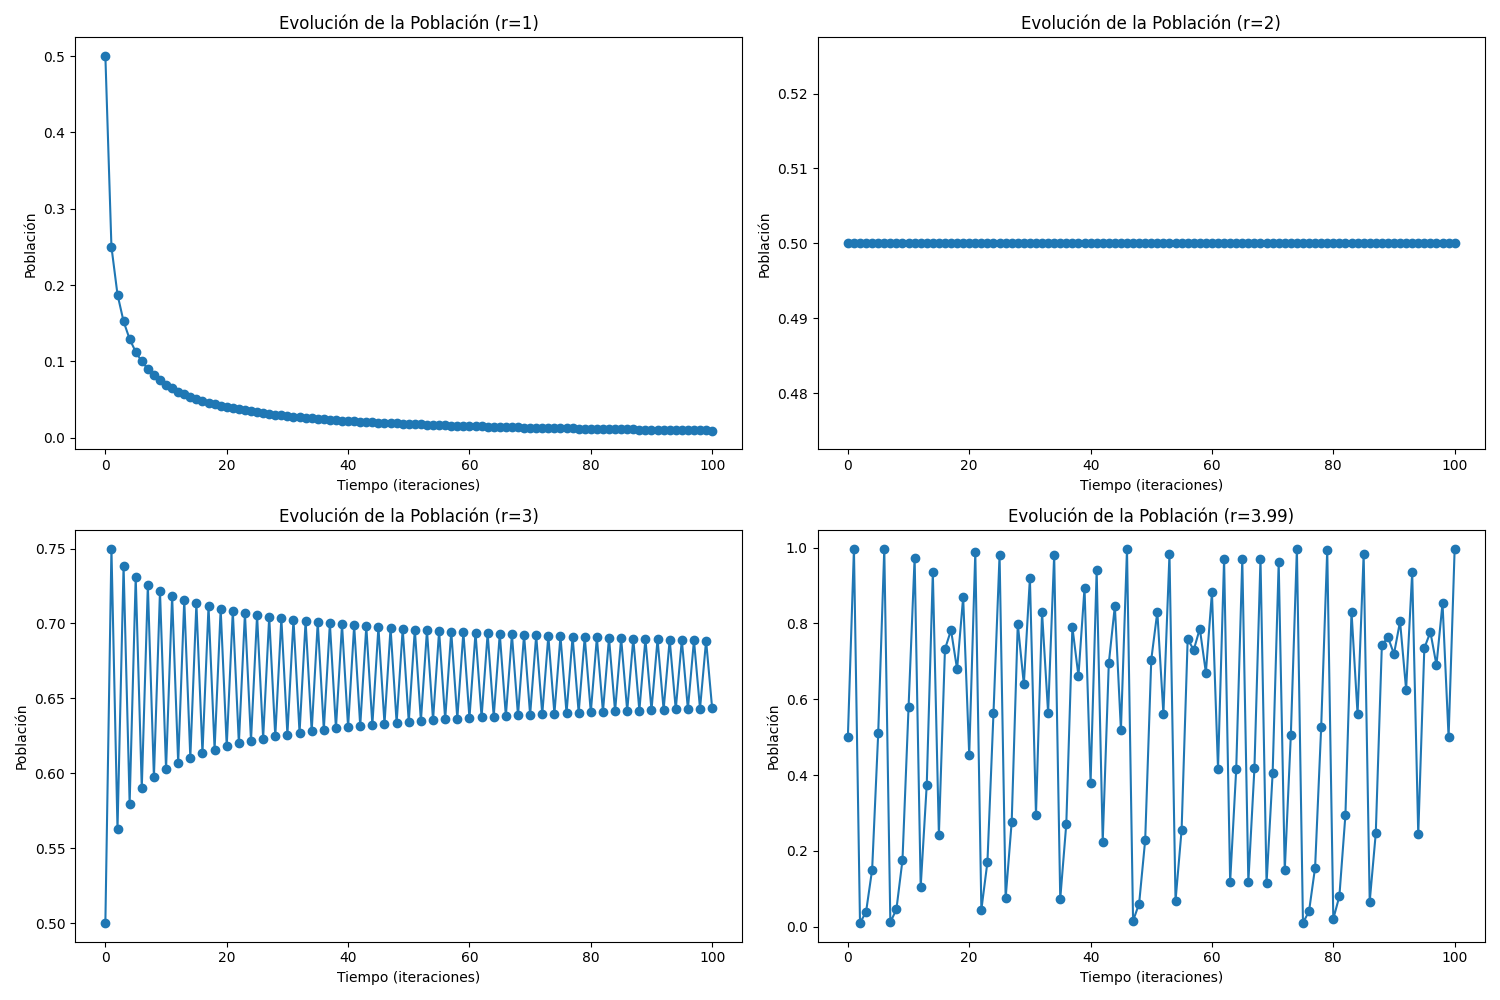
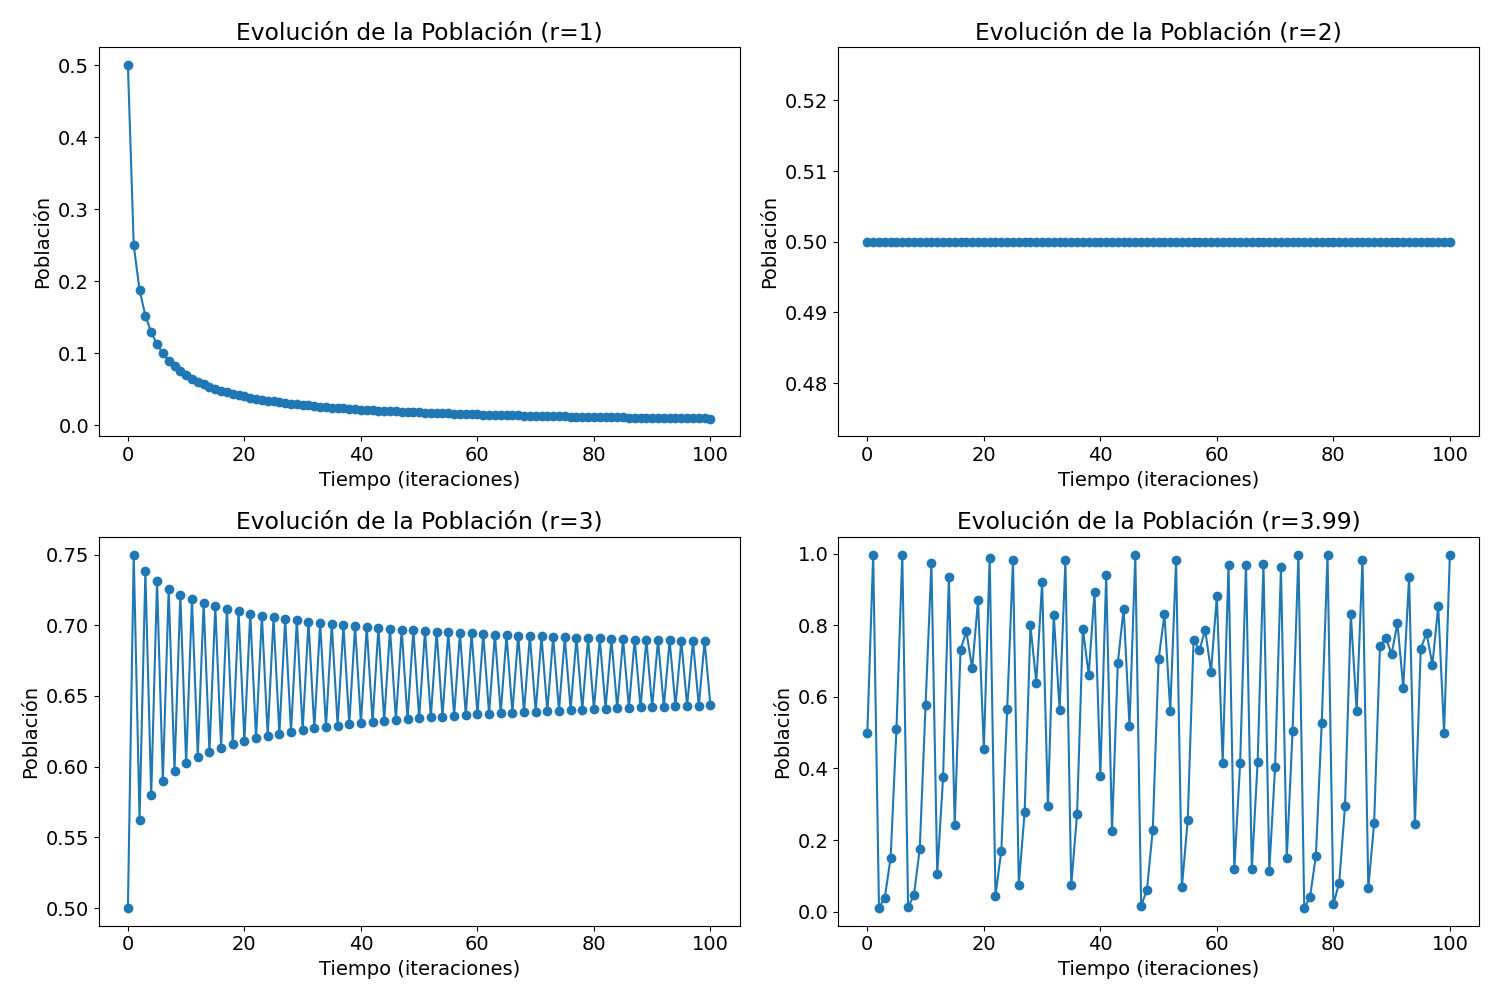
Changed font size in logistic.py

diff --git a/bifurcation/logistic.py b/bifurcation/logistic.py
@@ -17,6 +17,8 @@ def plot_population_evolution(ax, r, x0, n_iterations):
     ax.set_ylabel('Población')
 
 if __name__ == "__main__":
+    plt.rcParams.update({'font.size': 14})
+
     r_values = [1, 2, 3, 3.99]
     x0 = 0.5
     n_iterations = 100
